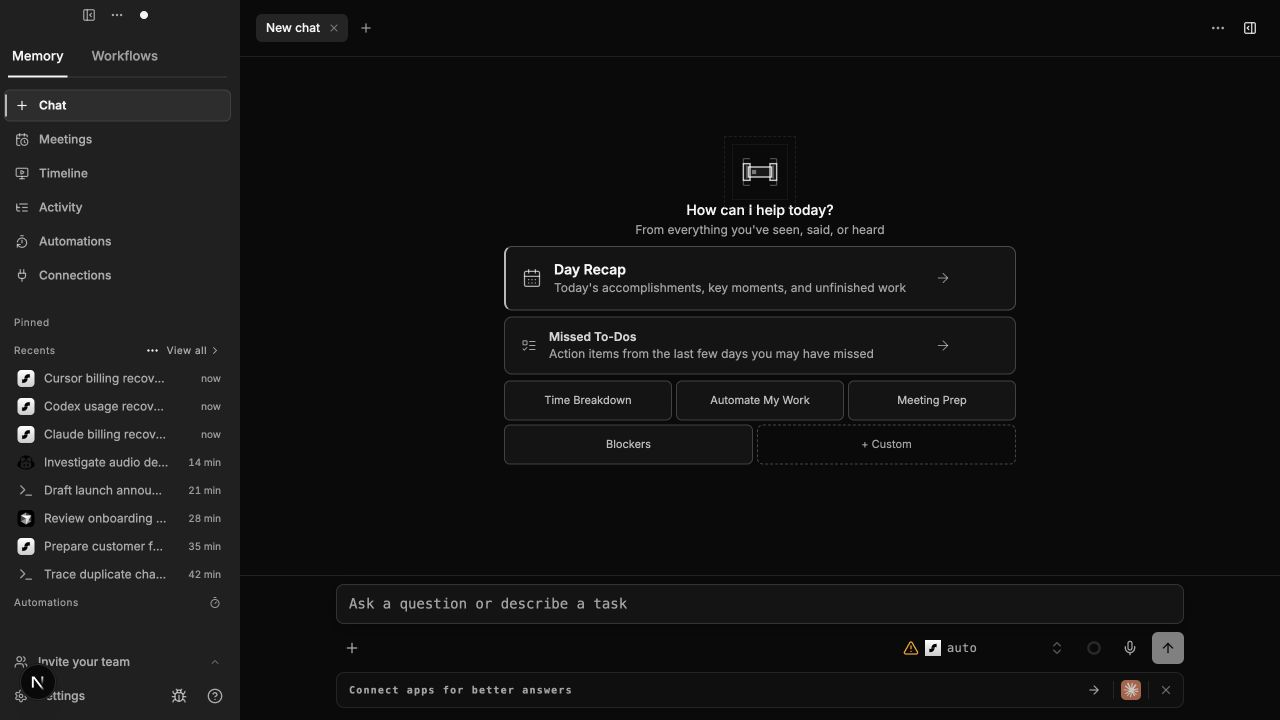
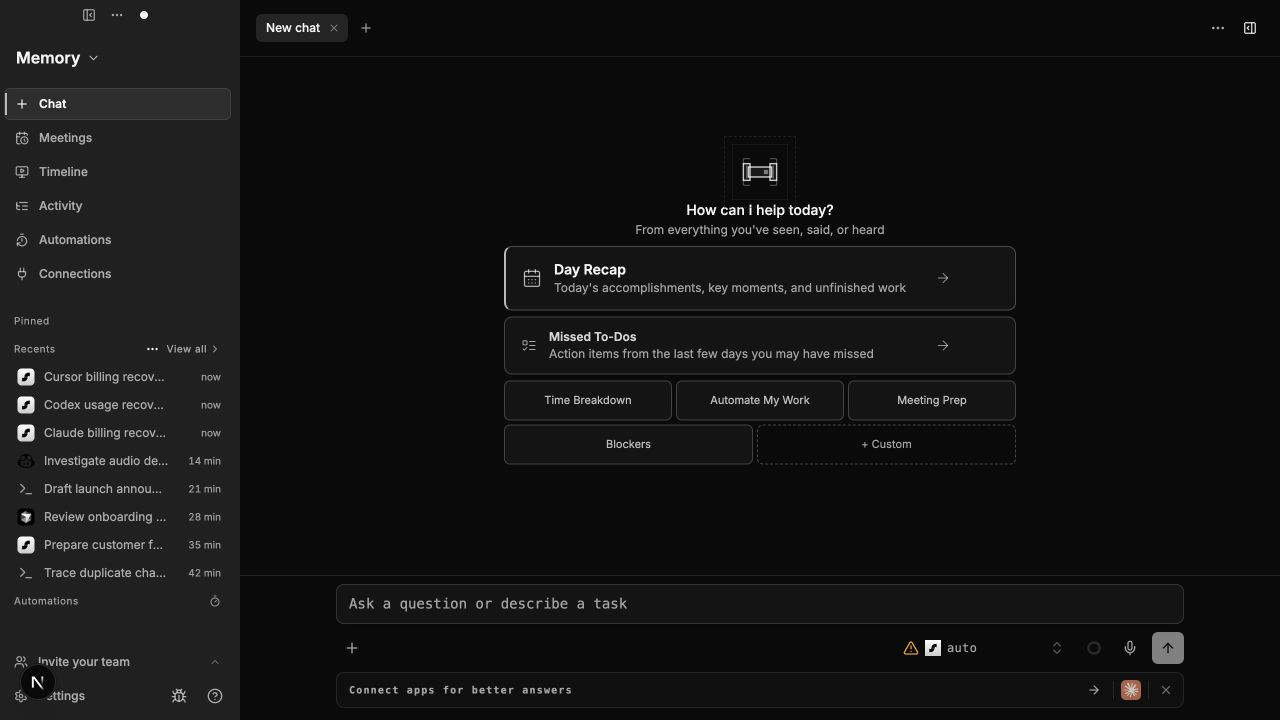
Restore compact workspace menu with adjacent chevron and switch hint

diff --git a/apps/screenpipe-app-tauri/components/workflows/product-switcher.tsx b/apps/screenpipe-app-tauri/components/workflows/product-switcher.tsx
@@ -2,45 +2,69 @@
 // https://screenpipe.com
 "use client";
 
+import { Check, ChevronDown, Workflow, History } from "lucide-react";
+import { DropdownMenu, DropdownMenuTrigger, DropdownMenuContent, DropdownMenuItem } from "@/components/ui/dropdown-menu";
+import { Tooltip, TooltipContent, TooltipProvider, TooltipTrigger } from "@/components/ui/tooltip";
 import { useWorkflowsRolloutEnabled } from "@/lib/workflows/rollout";
 import { cn } from "@/lib/utils";
 import { useGT } from "gt-react";
 
 export type ProductMode = "screenpipe" | "workflows";
+
 export function ProductSwitcher({ mode, onChange, compact = false }: {
   mode: ProductMode;
   onChange: (mode: ProductMode) => void;
   compact?: boolean;
 }) {
-
   const ui = useGT();
   const enabled = useWorkflowsRolloutEnabled();
   if (!enabled) return null;
+
   return (
-    <div
-      role="group"
-      aria-label={ui("Switch workspace")}
-      className={cn("flex gap-5 border-b border-[color-mix(in_srgb,currentColor_12%,transparent)] text-inherit", compact ? "w-fit" : "w-full")}
-    >
-      {([
-        ["screenpipe", ui("Memory")],
-        ["workflows", ui("Workflows")],
-      ] as const).map(([value, label]) => (
-        <button
-          key={value}
-          type="button"
-          aria-pressed={mode === value}
-          onClick={() => { if (mode !== value) onChange(value); }}
-          className={cn(
-            "relative -mb-px min-w-0 whitespace-nowrap border-b-2 px-1 pb-2.5 pt-1.5 text-[13px] font-medium text-inherit transition-opacity focus-visible:rounded-sm focus-visible:outline focus-visible:outline-1 focus-visible:outline-offset-2 focus-visible:outline-current",
-            mode === value
-              ? "border-current opacity-100"
-              : "border-transparent opacity-60 hover:opacity-100",
-          )}
-        >
-          <span>{label}</span>
-        </button>
-      ))}
-    </div>
+    <DropdownMenu>
+      <TooltipProvider delayDuration={400}>
+        <Tooltip>
+          <TooltipTrigger asChild>
+            <DropdownMenuTrigger asChild>
+              <button
+                type="button"
+                aria-label={ui("Switch workspace")}
+                className={cn(
+                  "inline-flex items-center gap-1.5 rounded-md px-2 py-1.5 font-semibold text-inherit transition-colors hover:bg-[color-mix(in_srgb,currentColor_8%,transparent)] data-[state=open]:bg-[color-mix(in_srgb,currentColor_8%,transparent)] focus-visible:outline focus-visible:outline-1 focus-visible:outline-offset-2 focus-visible:outline-current",
+                  compact ? "text-sm" : "text-base",
+                )}
+              >
+                <span>{mode === "workflows" ? ui("Workflows") : ui("Memory")}</span>
+                <ChevronDown size={14} className="shrink-0 opacity-70" aria-hidden="true" />
+              </button>
+            </DropdownMenuTrigger>
+          </TooltipTrigger>
+          <TooltipContent side="bottom" align="start">
+            {ui("Switch between Memory and Workflows")}
+          </TooltipContent>
+        </Tooltip>
+      </TooltipProvider>
+      <DropdownMenuContent align="start" sideOffset={6} className="w-64 p-1" aria-label={ui("Workspaces")}>
+        {([
+          ["screenpipe", History, ui("Memory"), ui("Find anything from your day")],
+          ["workflows", Workflow, ui("Workflows"), ui("Understand how your work gets done")],
+        ] as const).map(([value, Icon, title, subtitle]) => (
+          <DropdownMenuItem
+            key={value}
+            onSelect={() => { if (mode !== value) onChange(value); }}
+            className="cursor-pointer gap-3 px-3 py-2.5"
+            role="menuitemradio"
+            aria-checked={mode === value}
+          >
+            <Icon size={16} className="shrink-0" aria-hidden="true" />
+            <span className="flex-1">
+              <span className="block text-sm font-medium">{title}</span>
+              <span className="mt-0.5 block text-xs text-muted-foreground">{subtitle}</span>
+            </span>
+            {mode === value && <Check size={14} aria-hidden="true" />}
+          </DropdownMenuItem>
+        ))}
+      </DropdownMenuContent>
+    </DropdownMenu>
   );
 }

diff --git a/apps/screenpipe-app-tauri/components/workflows/rollout.test.tsx b/apps/screenpipe-app-tauri/components/workflows/rollout.test.tsx
@@ -19,11 +19,11 @@ it("fails closed until an explicit boolean true", () => {
 });
 it("hides the switcher before flag resolution and on revocation", () => {
   const view = render(<ProductSwitcher mode="screenpipe" onChange={vi.fn()} />);
-  expect(screen.queryByRole("group", { name: "Switch workspace" })).toBeNull();
+  expect(screen.queryByRole("button", { name: "Switch workspace" })).toBeNull();
   state.flag = true; view.rerender(<ProductSwitcher mode="screenpipe" onChange={vi.fn()} />);
-  expect(screen.getByRole("group", { name: "Switch workspace" })).toBeVisible();
+  expect(screen.getByRole("button", { name: "Switch workspace" })).toBeVisible();
   state.flag = false; view.rerender(<ProductSwitcher mode="screenpipe" onChange={vi.fn()} />);
-  expect(screen.queryByRole("group", { name: "Switch workspace" })).toBeNull();
+  expect(screen.queryByRole("button", { name: "Switch workspace" })).toBeNull();
 });
 it("does not install or run tasks while excluded from rollout", async () => {
   await expect(enableWorkflowTask()).rejects.toThrow("not available");

diff --git a/apps/screenpipe-app-tauri/README.md b/apps/screenpipe-app-tauri/README.md
@@ -15,7 +15,7 @@ usage documentation is available at [docs.screenpi.pe](https://docs.screenpi.pe/
 
 ## Workflows integration preview
 
-The workspace toggle in `/home` switches between Memory and Workflows. In the
+The workspace menu in `/home` switches between Memory and Workflows. In the
 browser-mock build (`bun run dev:web`), Workflows uses synthetic data and its
 build-catalog action does not call the engine or an AI provider. Packaged builds
 use the main app's recorder, account, and app-local workflow storage.
